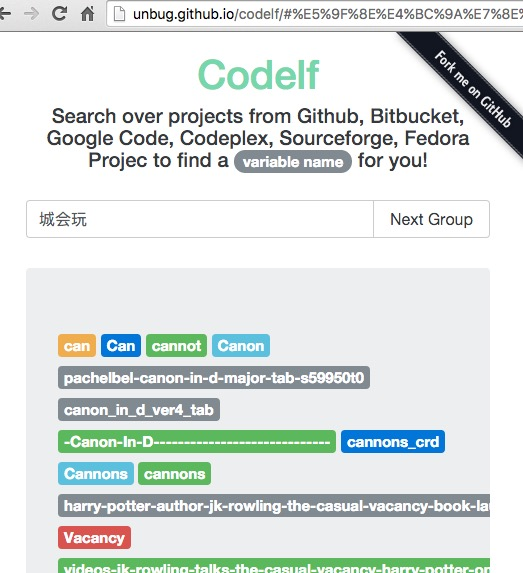
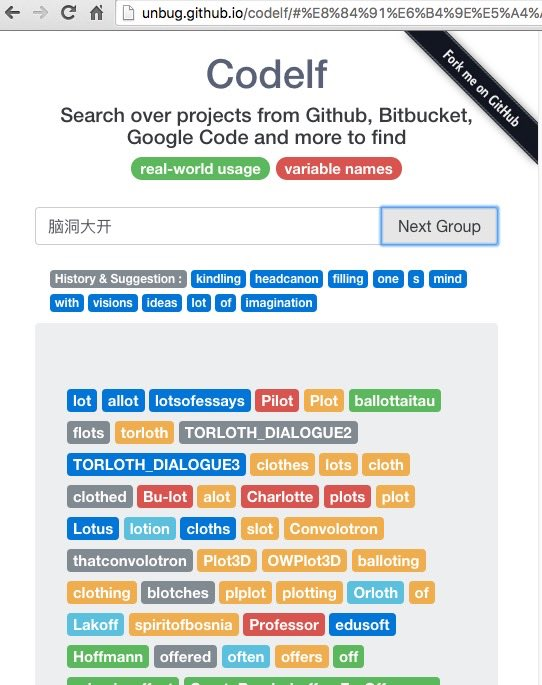
updated demo images

diff --git a/index.html b/index.html
@@ -403,7 +403,7 @@
         .replace(/[`~!@#$^&*()=|{}':;',\[\].<>\/?~！@#￥……&*（）——|\\{\\}【】‘；：”“’。，、？]/g,' ')
         .replace(/\s+/ig,'+').split('+')
         .filter(function(key,idx,inputArray){
-          var dup = inputArray.indexOf(key) == idx && !/^(a|an|the|that|this|those|these|and)$/ig.test(key);
+          var dup = key.length>1 && inputArray.indexOf(key) == idx && !/^(a|an|the|that|this|those|these|and)$/ig.test(key);
           if(dup){
             labels.push(els.searchRelateTpl.replace(/\{val\}/g,key));
           }
